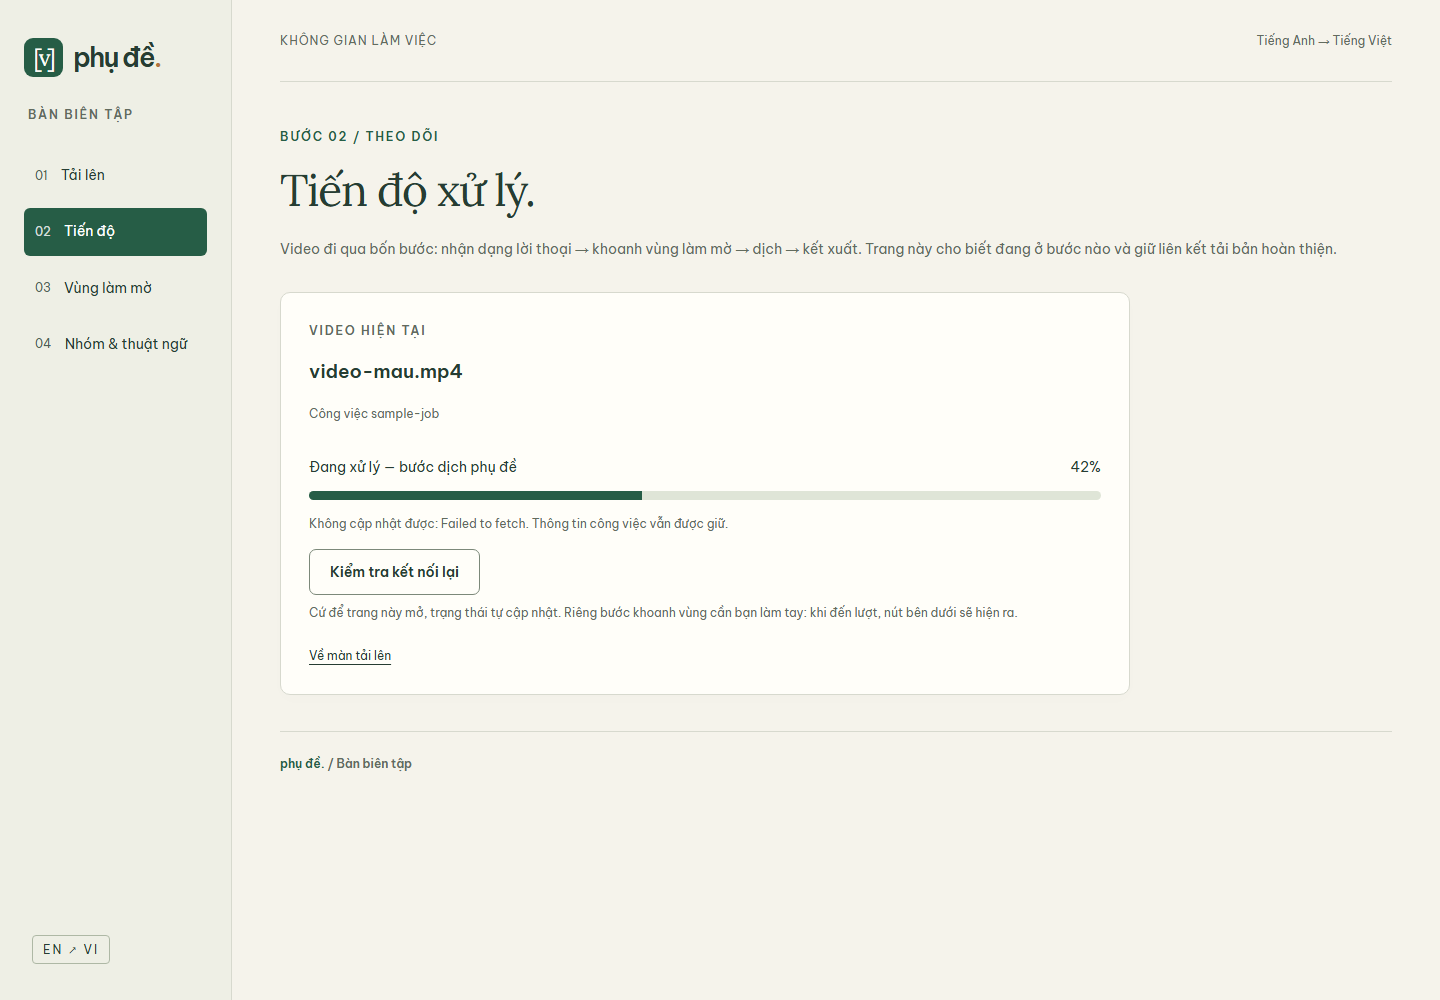
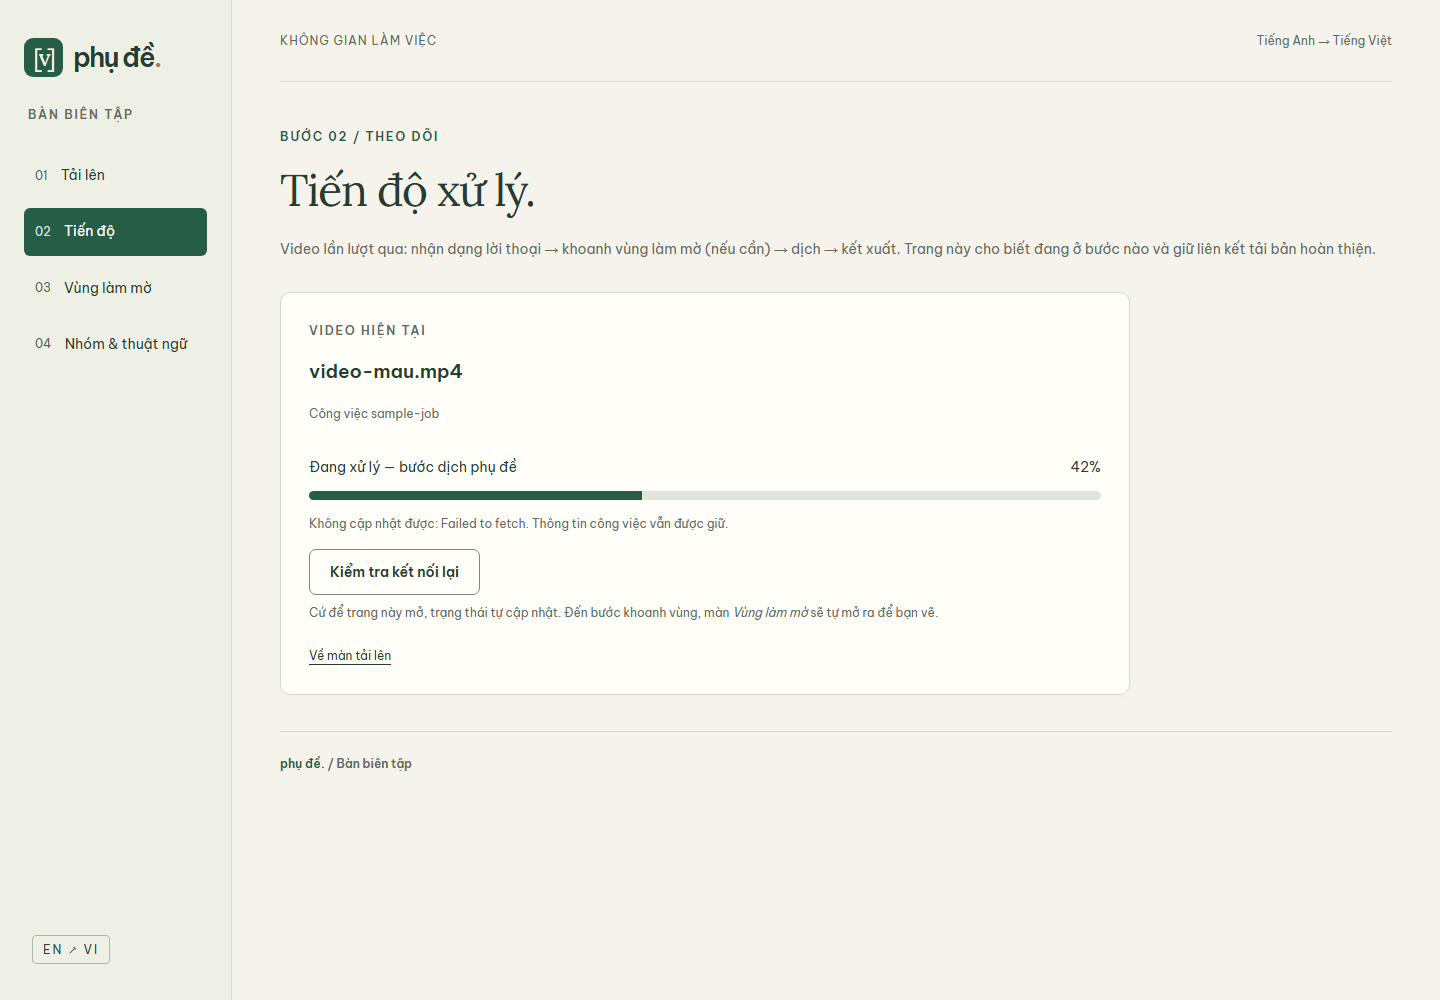
Go nut dan duong chet va sua ba cau mo ta sai hanh vi that
Soat lai lan hai thi lo ra mot chan doan sai o commit truoc.

- Bo nut "Khoanh vung lam mo" (#sang-khung) va dong JS dieu khien no.
  nap_khung() ket thuc bang hien("khung"), tuc app DA tu mo man khoanh
  vung khi den buoc do; nut lai nam trong section #tien-do, bi an dung
  luc cho_hop=true, nen khong bao gio hien ra. Khong he co cho ket nao
  can loi dan duong. Lan kiem truoc chi tu tay set hidden=false roi chup
  anh — chi chung minh CSS ve duoc nut, khong chung minh duoc luong that.
- Man Tien do: cau "nut ben duoi se hien ra" -> "man Vung lam mo se tu mo
  ra", dung voi hanh vi that.
- Lead man Tien do: "di qua bon buoc" -> "lan luot qua ... (neu can)",
  vi blur=off hoac video doc (W/H < 1.2) thi khong co buoc khoanh vung.
- Vung mac dinh nhom: "tu dien vung nay" -> "dung luon, khong phai khoanh
  lai" — co hop_nhom thi _buoc_hop khong raise ChoChonKhung nua.
- Tra lai cau goc ve khoa thuat ngu. Cau tu viet ("khong khoa: may tham
  khao") la bia: doc_thuat_ngu nap moi thuat ngu vao glossary va prompt
  bat buoc dung het, con ghi_thuat_ngu von da khong ghi de ban dich nao
  ("locked or not"), nen co khoa hay khong deu khong doi hanh vi dich.

Kiem chung: test/frontend.cjs PASS ca 3 cum; test_pipeline.py 17/17 PASS;
them mot luot kiem luong that (khong dong vao DOM) xac nhan app tu mo man
Vung lam mo, huong dan khop hanh vi, khong con code chet.

Claude-Session: https://claude.ai/code/session_013nes8c2aK4RsDJ2PqJ5yEa

Changed region(s): [[0.2188, 0.217, 0.9375, 0.279], [0.375, 0.589, 0.6875, 0.62]]

diff --git a/web/index.html b/web/index.html
@@ -29,8 +29,8 @@
     </div>
   </section>
   <section id="tien-do" hidden aria-labelledby="tieu-de-tien-do">
-    <div class="page-heading"><p class="eyebrow">BƯỚC 02 / THEO DÕI</p><h2 id="tieu-de-tien-do">Tiến độ xử lý.</h2><p class="lead">Video đi qua bốn bước: nhận dạng lời thoại → khoanh vùng làm mờ → dịch → kết xuất. Trang này cho biết đang ở bước nào và giữ liên kết tải bản hoàn thiện.</p></div>
-    <div class="paper progress-paper"><p class="small-label">VIDEO HIỆN TẠI</p><h3 id="video-name">Chưa có video</h3><p id="viec-id" class="mo"></p><div class="progress-heading"><p id="viec-trang-thai" role="status">Chưa có công việc nào.</p><span id="progress-label">—</span></div><div class="thanh" role="progressbar" aria-label="Tiến độ xử lý video" aria-valuemin="0" aria-valuemax="100" aria-valuenow="0"><div id="thanh-chay"></div></div><p id="connection-status" role="status" class="mo"></p><button id="poll-retry" type="button" hidden>Kiểm tra kết nối lại</button><p class="field-note">Cứ để trang này mở, trạng thái tự cập nhật. Riêng bước khoanh vùng cần bạn làm tay: khi đến lượt, nút bên dưới sẽ hiện ra.</p><a id="sang-khung" class="button primary" href="#khung" hidden>Khoanh vùng làm mờ ↗</a><a id="tai-ket-qua" class="button primary" href="#" hidden download>Tải video kết quả ↓</a><a class="text-link" href="#tai-len">Về màn tải lên</a></div>
+    <div class="page-heading"><p class="eyebrow">BƯỚC 02 / THEO DÕI</p><h2 id="tieu-de-tien-do">Tiến độ xử lý.</h2><p class="lead">Video lần lượt qua: nhận dạng lời thoại → khoanh vùng làm mờ (nếu cần) → dịch → kết xuất. Trang này cho biết đang ở bước nào và giữ liên kết tải bản hoàn thiện.</p></div>
+    <div class="paper progress-paper"><p class="small-label">VIDEO HIỆN TẠI</p><h3 id="video-name">Chưa có video</h3><p id="viec-id" class="mo"></p><div class="progress-heading"><p id="viec-trang-thai" role="status">Chưa có công việc nào.</p><span id="progress-label">—</span></div><div class="thanh" role="progressbar" aria-label="Tiến độ xử lý video" aria-valuemin="0" aria-valuemax="100" aria-valuenow="0"><div id="thanh-chay"></div></div><p id="connection-status" role="status" class="mo"></p><button id="poll-retry" type="button" hidden>Kiểm tra kết nối lại</button><p class="field-note">Cứ để trang này mở, trạng thái tự cập nhật. Đến bước khoanh vùng, màn <em>Vùng làm mờ</em> sẽ tự mở ra để bạn vẽ.</p><a id="tai-ket-qua" class="button primary" href="#" hidden download>Tải video kết quả ↓</a><a class="text-link" href="#tai-len">Về màn tải lên</a></div>
   </section>
   <section id="khung" hidden aria-labelledby="tieu-de-khung">
     <div class="page-heading"><p class="eyebrow">TINH CHỈNH / PHỤ ĐỀ CỨNG</p><h2 id="tieu-de-khung">Chọn vùng làm mờ.</h2><p class="lead">Video gốc có sẵn phụ đề tiếng Anh in cứng vào hình. Làm mờ vùng đó để phụ đề tiếng Việt không chồng lên chữ cũ.</p></div>
@@ -39,13 +39,13 @@
       <p id="khung-hop" class="mo" role="status">Chưa vẽ hộp nào.</p>
       <fieldset id="pham-vi-fields" disabled class="pham-vi"><legend>Vùng đang vẽ áp cho</legend><div class="hang"><label class="o"><input type="radio" name="pham_vi" value="chung" checked>Mọi câu thoại</label><label class="o"><input type="radio" name="pham_vi" value="rieng">Riêng câu đang xem</label></div><p id="pham-vi-note" class="field-note" role="status">Mọi câu chưa có vùng riêng đều dùng vùng này.</p></fieldset>
       <details class="advanced"><summary>Phụ đề cứng nhảy chỗ giữa phim?</summary><form id="form-day"><fieldset id="day-fields" disabled><legend>Áp vùng đang vẽ cho một dải câu</legend><div class="hang coordinates"><label>Từ câu<input name="tu" type="number" min="1" step="1" required></label><label>Đến câu<input name="den" type="number" min="1" step="1" required></label><button type="submit">Áp cho dải câu</button></div><p class="field-note">Chọn <em>Riêng câu đang xem</em>, vẽ vùng mới ở chỗ phụ đề chuyển tới, rồi áp cho dải câu đó. Vùng chung của các câu khác không đổi.</p></fieldset></form></details>
-      <div class="form-footer"><div><label class="o"><input type="checkbox" id="hop-luu-nhom" disabled>Đặt làm vùng mặc định cho nhóm</label><p class="field-note">Các video sau cùng nhóm sẽ tự điền vùng này.</p></div><div class="actions"><button id="hop-bo" type="button" disabled>Bỏ qua làm mờ</button><button id="hop-gui" class="primary" type="button" disabled>Xong, kết xuất ↗</button></div></div>
+      <div class="form-footer"><div><label class="o"><input type="checkbox" id="hop-luu-nhom" disabled>Đặt làm vùng mặc định cho nhóm</label><p class="field-note">Video sau trong nhóm dùng luôn vùng này, không phải khoanh lại.</p></div><div class="actions"><button id="hop-bo" type="button" disabled>Bỏ qua làm mờ</button><button id="hop-gui" class="primary" type="button" disabled>Xong, kết xuất ↗</button></div></div>
     </div>
   </section>
   <section id="nhom" hidden aria-labelledby="tieu-de-nhom">
     <div class="page-heading"><p class="eyebrow">TỪ NGỮ / NHẤT QUÁN</p><h2 id="tieu-de-nhom">Nhóm &amp; thuật ngữ.</h2><p class="lead">Nhóm gom các tập của cùng một phim. Thuật ngữ khai ở đây được giữ nguyên khi dịch, để tên riêng và cách xưng hô không mỗi tập một kiểu.</p></div>
     <div class="paper"><form id="form-nhom" class="hang"><label>Tạo nhóm mới<input name="ten" placeholder="Tên phim hoặc kênh" required></label><button class="primary">Tạo nhóm +</button></form><p class="field-note">Tạo nhóm tại đây, rồi chọn đúng tên nhóm đó ở ô <em>Nhóm</em> khi tải video lên.</p><ul id="nhom-ds" aria-live="polite"></ul></div>
-    <div id="nhom-chi-tiet" class="paper glossary" hidden><p class="small-label">THUẬT NGỮ CỦA NHÓM</p><h3 id="nhom-ten"></h3><div class="table-wrap" tabindex="0" role="region" aria-label="Bảng thuật ngữ"><table id="bang-thuat-ngu"><thead><tr><th scope="col">Từ gốc</th><th scope="col">Bản dịch</th></tr></thead><tbody></tbody></table></div><form id="form-thuat-ngu" class="hang"><label>Từ gốc<input name="goc" placeholder="Ví dụ: Ironhold" required></label><label>Bản dịch<input name="dich" placeholder="Ví dụ: Thành Sắt" required></label><label class="o"><input type="checkbox" name="khoa">Khóa bản dịch</label><button class="primary">Lưu thuật ngữ</button></form><p class="field-note">Không khóa: máy tham khảo bản dịch của bạn. Khóa: bắt buộc dùng đúng chữ này, không được đổi.</p><form id="form-hop-nhom" class="hang default-box"><label>Vùng làm mờ mặc định<input name="hop" placeholder="x,y,w,h — ví dụ 0.3,0.855,0.4,0.09" required></label><button>Lưu vùng mặc định</button></form></div>
+    <div id="nhom-chi-tiet" class="paper glossary" hidden><p class="small-label">THUẬT NGỮ CỦA NHÓM</p><h3 id="nhom-ten"></h3><div class="table-wrap" tabindex="0" role="region" aria-label="Bảng thuật ngữ"><table id="bang-thuat-ngu"><thead><tr><th scope="col">Từ gốc</th><th scope="col">Bản dịch</th></tr></thead><tbody></tbody></table></div><form id="form-thuat-ngu" class="hang"><label>Từ gốc<input name="goc" placeholder="Ví dụ: Ironhold" required></label><label>Bản dịch<input name="dich" placeholder="Ví dụ: Thành Sắt" required></label><label class="o"><input type="checkbox" name="khoa">Khóa bản dịch</label><button class="primary">Lưu thuật ngữ</button></form><p class="field-note">Khóa để bản dịch tự động không đổi thuật ngữ này.</p><form id="form-hop-nhom" class="hang default-box"><label>Vùng làm mờ mặc định<input name="hop" placeholder="x,y,w,h — ví dụ 0.3,0.855,0.4,0.09" required></label><button>Lưu vùng mặc định</button></form></div>
   </section>
   <footer class="page-footer"><span>phụ đề. <span class="mo">/ Bàn biên tập</span></span></footer>
 </main>

diff --git a/web/app.js b/web/app.js
@@ -28,7 +28,6 @@ function cap_nhat_ui() {
   $("video-file").disabled = dang_gui || dang_xu_ly;
   $("upload-note").textContent = dang_xu_ly ? "Công việc hiện tại chưa hoàn tất. Xem màn Tiến độ." : "Mỗi lần xử lý một video.";
   scene?.setBusy(dang_gui || dang_xu_ly);
-  $("sang-khung").hidden = !cho_hop;          // man tien do khong co loi sang man ve hop
 }
 
 function bao(text, ok = false) {
